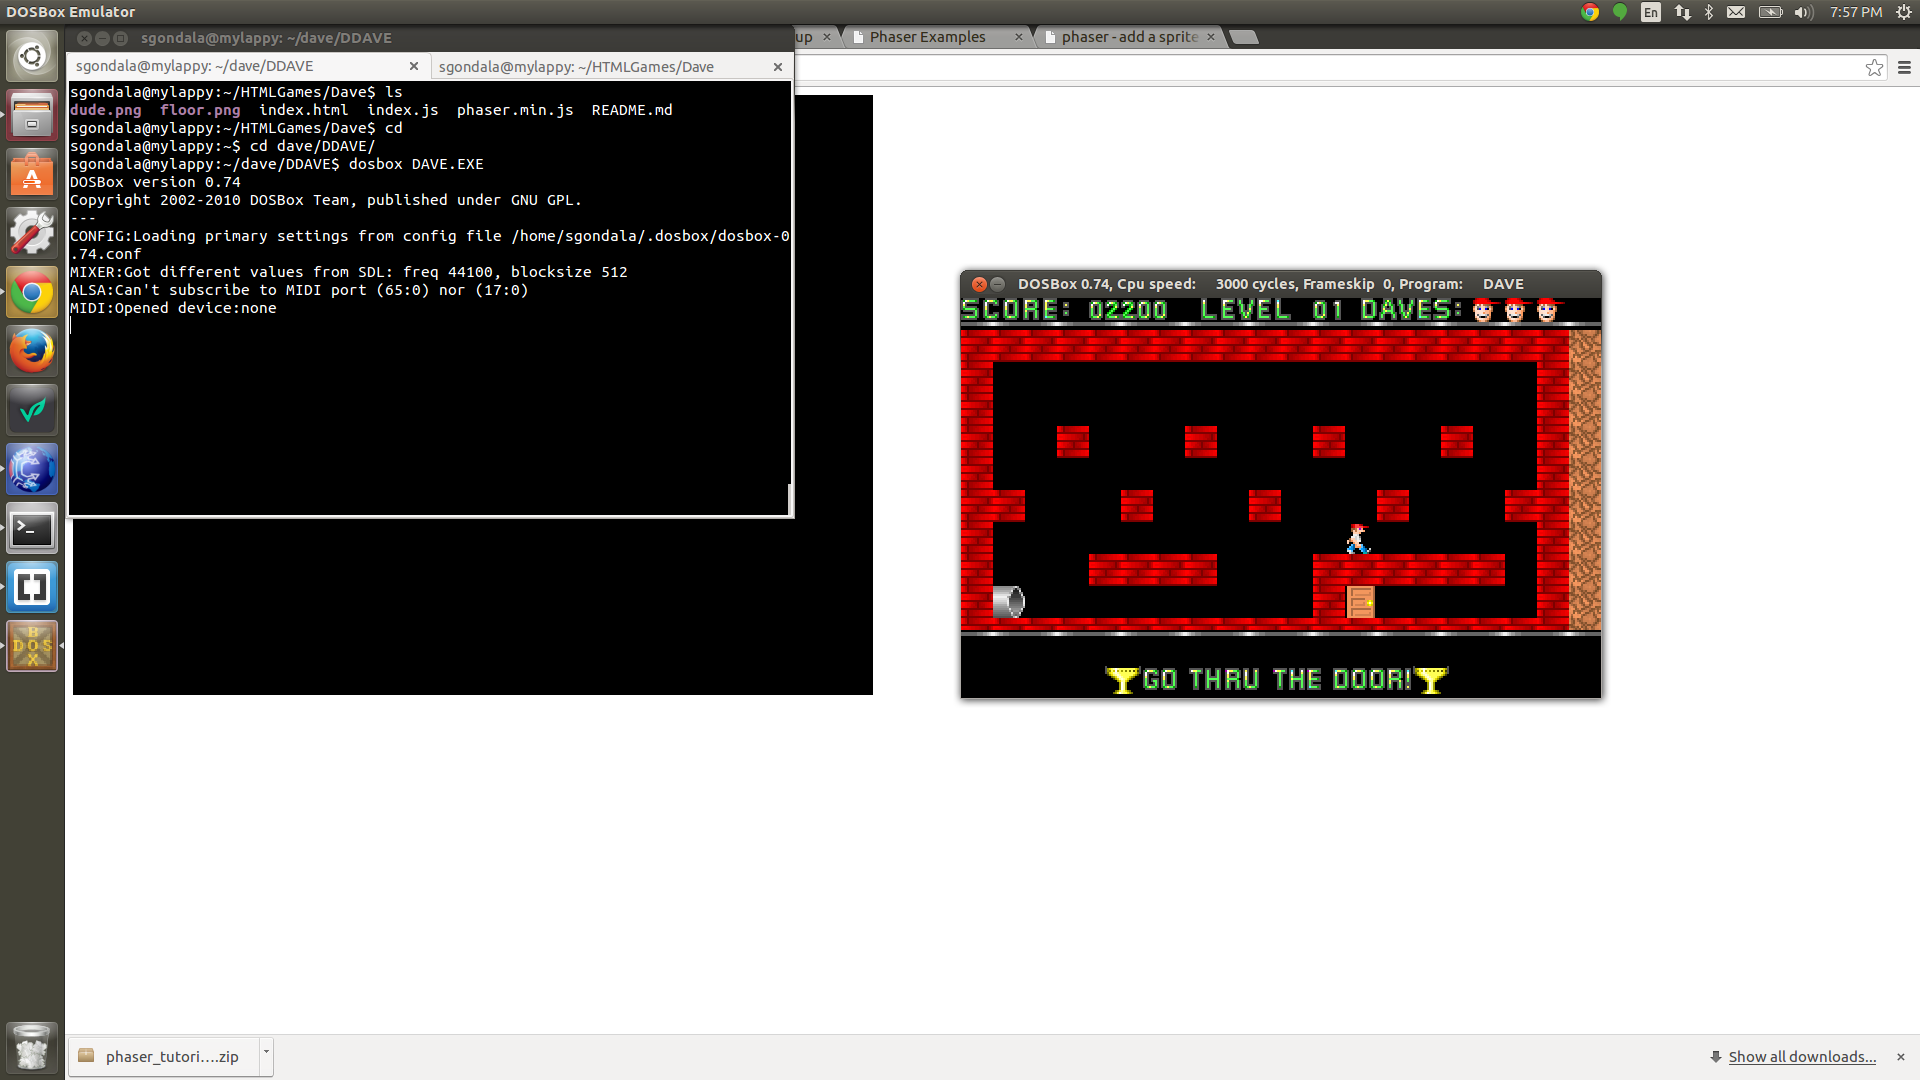
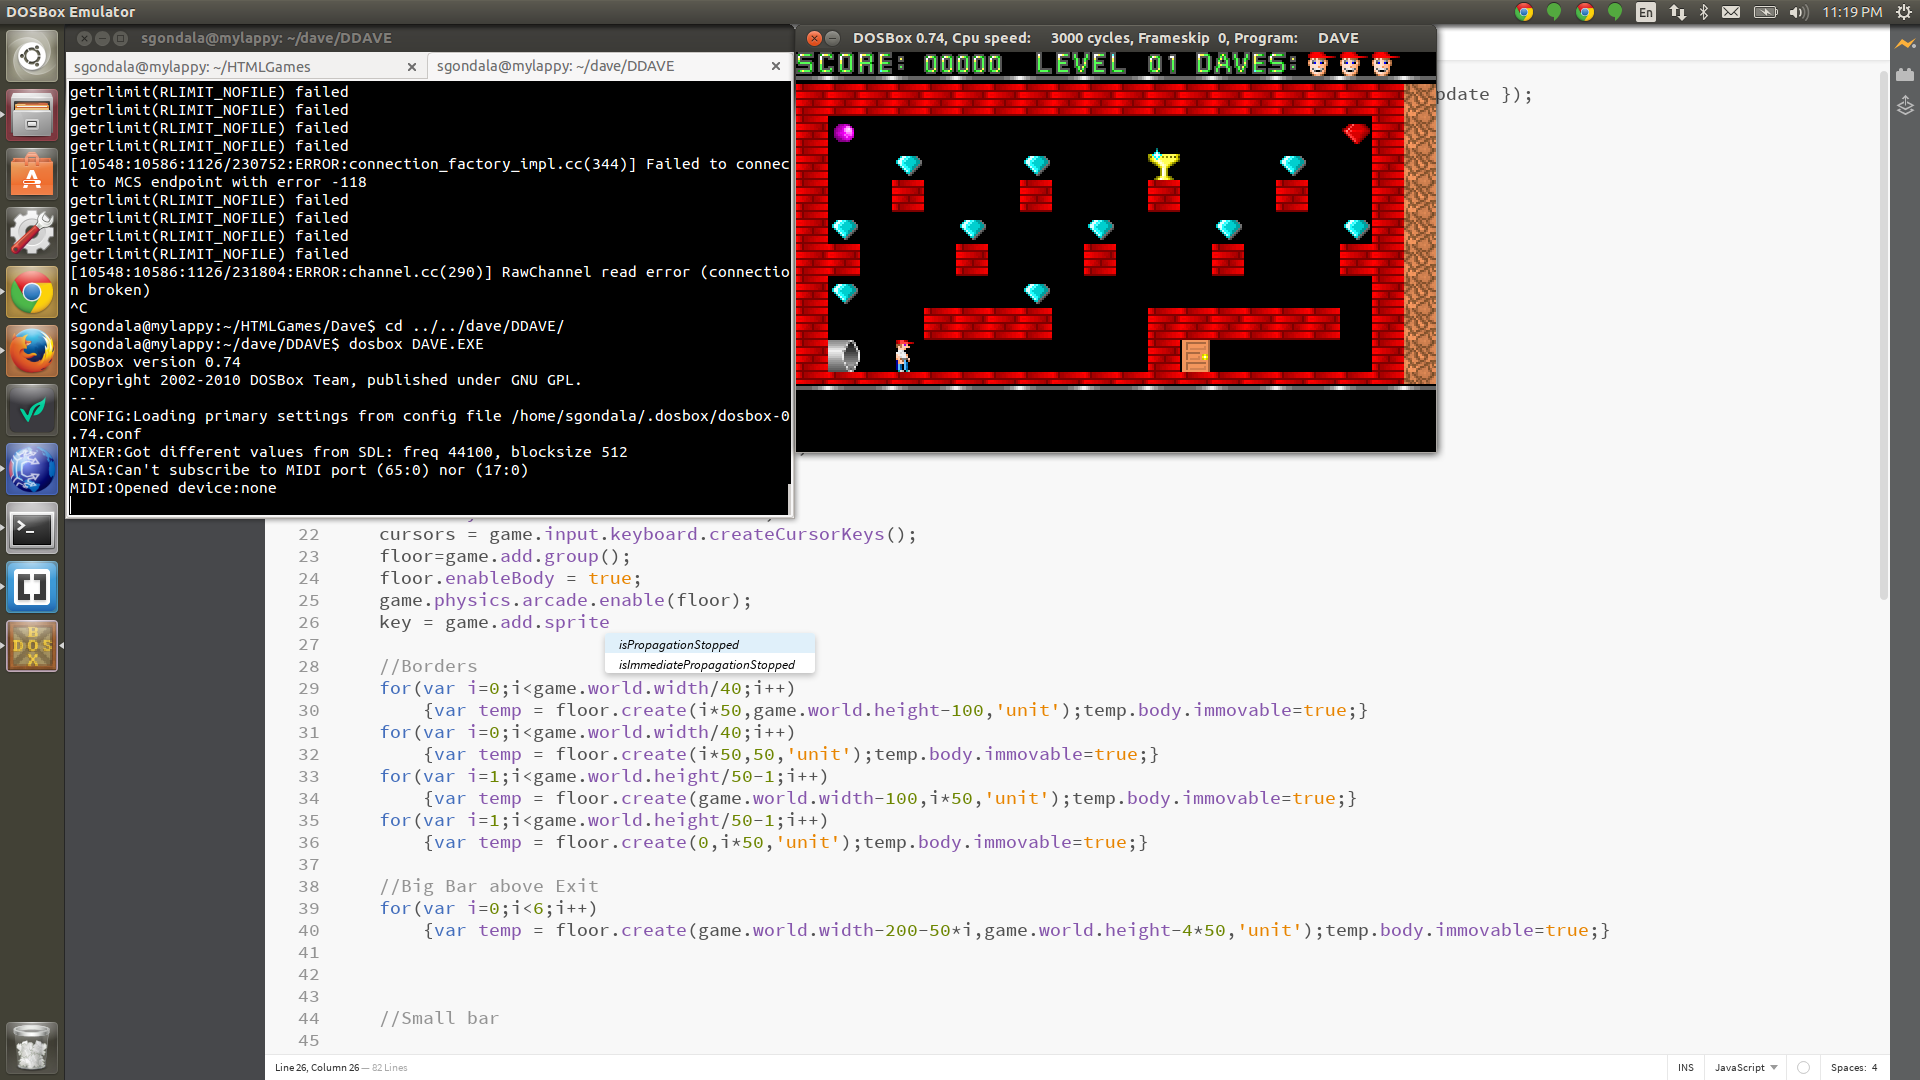
Done code logic, to add collectors

diff --git a/Dave/index.js b/Dave/index.js
@@ -1,65 +1,104 @@
 
-var game = new Phaser.Game(800, 600, Phaser.AUTO, '', { preload: preload, create: create, update: update });
+var game = new Phaser.Game(1000, 600, Phaser.AUTO, '', { preload: preload, create: create, update: update });
 
 function preload() {
     
     game.load.image('dave','dude.png');
     game.load.image('unit','floor.png');
-    
+    game.load.image('keyImage','red.jpg');
+    game.load.image('doorImage','brown.jpg');
+    game.load.image('collector','voilet.jpg');
 }
 
-var player;
-var platforms;
-var cursors;
+
 var dave;
-var stars;
+var powers;
+var floor;
+var key;
+var Level1Key;
 var score = 0;
 var scoreText;
-var floor;
+var door;
 
-function create() {
+function create() {     // Bug at left and right corner
     dave = game.add.sprite(200,200,'dave');
     game.physics.arcade.enable(dave);
     dave.body.gravity.y = 500; 
     dave.body.collideWorldBounds = true;
     cursors = game.input.keyboard.createCursorKeys();
+    
     floor=game.add.group();
     floor.enableBody = true;
+    
+    /*
+    points=game.add.group();
+    points.enableBody=true;
+    game.add.sprite(100,100,'collector'); */
+    
     game.physics.arcade.enable(floor);
-    for(var i=0;i<game.world.width/40;i++)
-        {var temp = floor.create(i*50,game.world.height-25,'unit');temp.body.immovable=true;}
-    for(var i=0;i<game.world.width/40;i++)
-        {var temp = floor.create(i*50,-25,'unit');temp.body.immovable=true;}
-    for(var i=0;i<game.world.height/40;i++)
-        {var temp = floor.create(game.world.width-25,i*50,'unit');temp.body.immovable=true;}
-    for(var i=0;i<game.world.height/40;i++)
-        {var temp = floor.create(-25,i*50,'unit');temp.body.immovable=true;}
+    key = game.add.sprite(11*50,3*50,'keyImage');
+    game.physics.arcade.enable(key);
+    Level1Key=0;
+    door = game.add.sprite(game.world.width-50*8,game.world.height-50*3,'doorImage');
+    game.physics.arcade.enable(door);
+    
+    //Borders
+    for(var i=0;i<game.world.width/50-1;i++)
+        {var temp = floor.create(i*50,game.world.height-100,'unit');temp.body.immovable=true;}
+    for(var i=0;i<game.world.width/50-1;i++)
+        {var temp = floor.create(i*50,50,'unit');temp.body.immovable=true;}
+    for(var i=1;i<game.world.height/50-1;i++)
+        {var temp = floor.create(game.world.width-100,i*50,'unit');temp.body.immovable=true;}
+    for(var i=1;i<game.world.height/50-1;i++)
+        {var temp = floor.create(0,i*50,'unit');temp.body.immovable=true;}
+    
+    //Big Bar above Exit
+    for(var i=1;i<6;i++)
+        {var temp = floor.create(game.world.width-200-50*i,game.world.height-4*50,'unit');temp.body.immovable=true;}
+        var finalSmall = floor.create(game.world.width-210,game.world.height-4*50,'unit');finalSmall.body.immovable=true;
+    
+    //Small bar
+    
     for(var i=0;i<4;i++)
-        {var temp = floor.create(game.world.width-125-50*i,game.world.height-125,'unit');temp.body.immovable=true;}
+        {var temp = floor.create(200+50*i,8*50,'unit');temp.body.immovable=true;}
     
     
+    var temp = floor.create(game.world.width-200-50*5,game.world.height-50*3,'unit');temp.body.immovable='true';
     
-    
+    //Small individual pieces, Starting from left
+    temp = floor.create(50,50*6,'unit');temp.body.immovable='true';
+    temp = floor.create(150,50*4,'unit');temp.body.immovable='true';
+    temp = floor.create(250,50*6,'unit');temp.body.immovable='true';
+    temp = floor.create(350,50*4,'unit');temp.body.immovable='true';
+    temp = floor.create(450,50*6,'unit');temp.body.immovable='true';
+    temp = floor.create(550,50*4,'unit');temp.body.immovable='true';
+    temp = floor.create(650,50*6,'unit');temp.body.immovable='true';
+    temp = floor.create(750,50*4,'unit');temp.body.immovable='true';
+
+    //Score
+    scoreText = game.add.text(50, 0, 'Score: 0', { fontSize: '32px', fill: '#FFF' });
     
 }
 
 function update() {
-        //game.physics.arcade.overlap(dave, floor, collission, null, this);
-    game.physics.arcade.collide(dave,floor);
-    dave.body.velocity.x=0;
-    //dave.body.velocity.y=0;
-    if(cursors.left.isDown){
-        dave.body.velocity.x=-100;
-    }
-    if(cursors.right.isDown){
-        dave.body.velocity.x=100;
-    }
-    if(cursors.up.isDown&&dave.body.velocity.y==0){
-        dave.body.velocity.y=-500;
-    }
+
     
+    game.physics.arcade.collide(dave,floor);
+    if((dave.body.touching.down||dave.body.velocity.y<=0)||(dave.body.touching.up||dave.body.velocity.y<=0))dave.body.velocity.x=0;
+    if(cursors.up.isDown&&dave.body.touching.down){dave.body.velocity.y=-350;}
+    if(cursors.left.isDown){dave.body.velocity.x=-100;}
+    if(cursors.right.isDown){dave.body.velocity.x=100;}
+    game.physics.arcade.overlap(dave,key,hit);
+    game.physics.arcade.overlap(dave,door,levelOver);
 }
 
 function hit() {
-    floor.kill();
+    key.kill();
+    Level1Key=1;
+    score += 10;
+    scoreText.text = 'Score: ' + score;
+}
+
+function levelOver(){
+    if(Level1Key==1)scoreText.text = 'End';
 }
